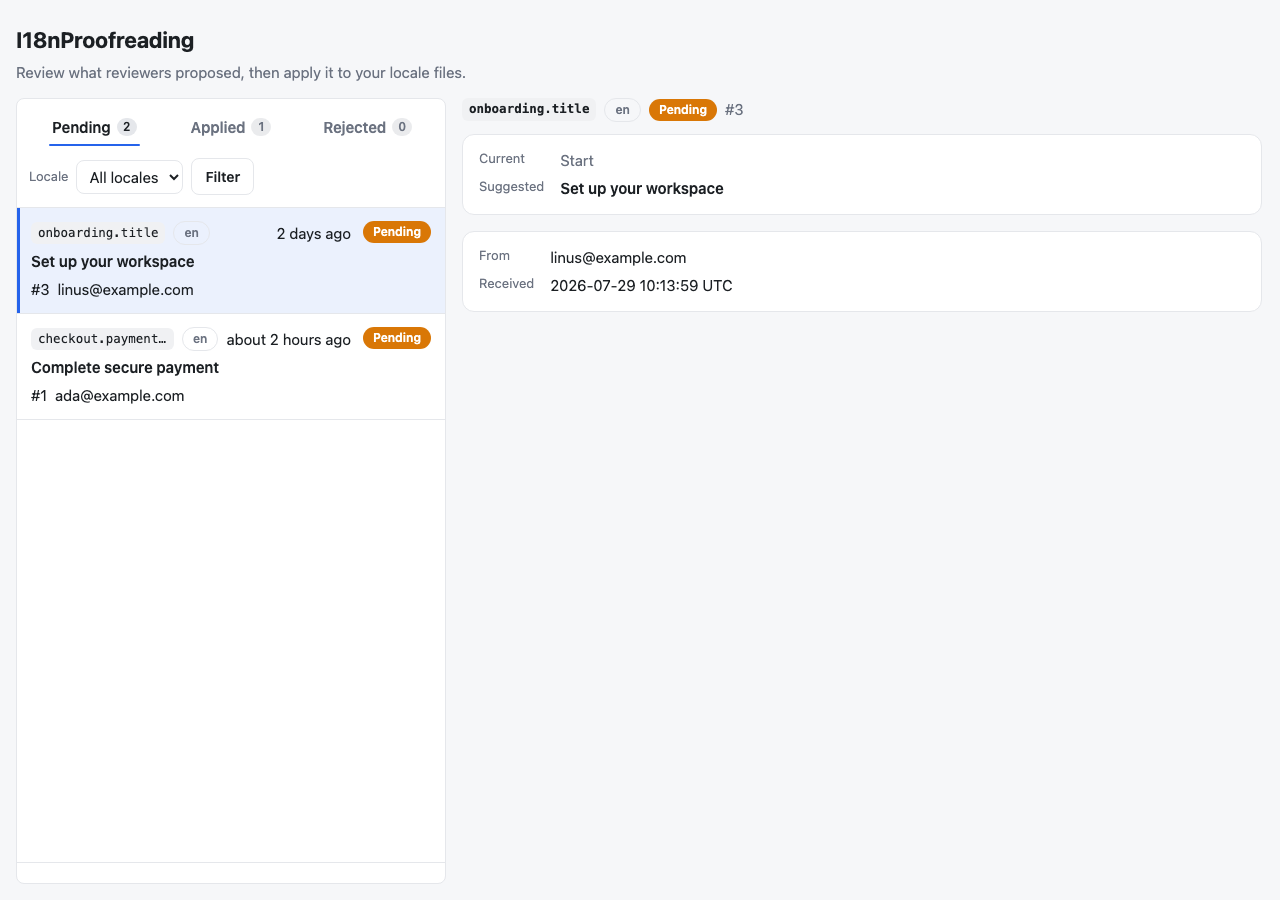
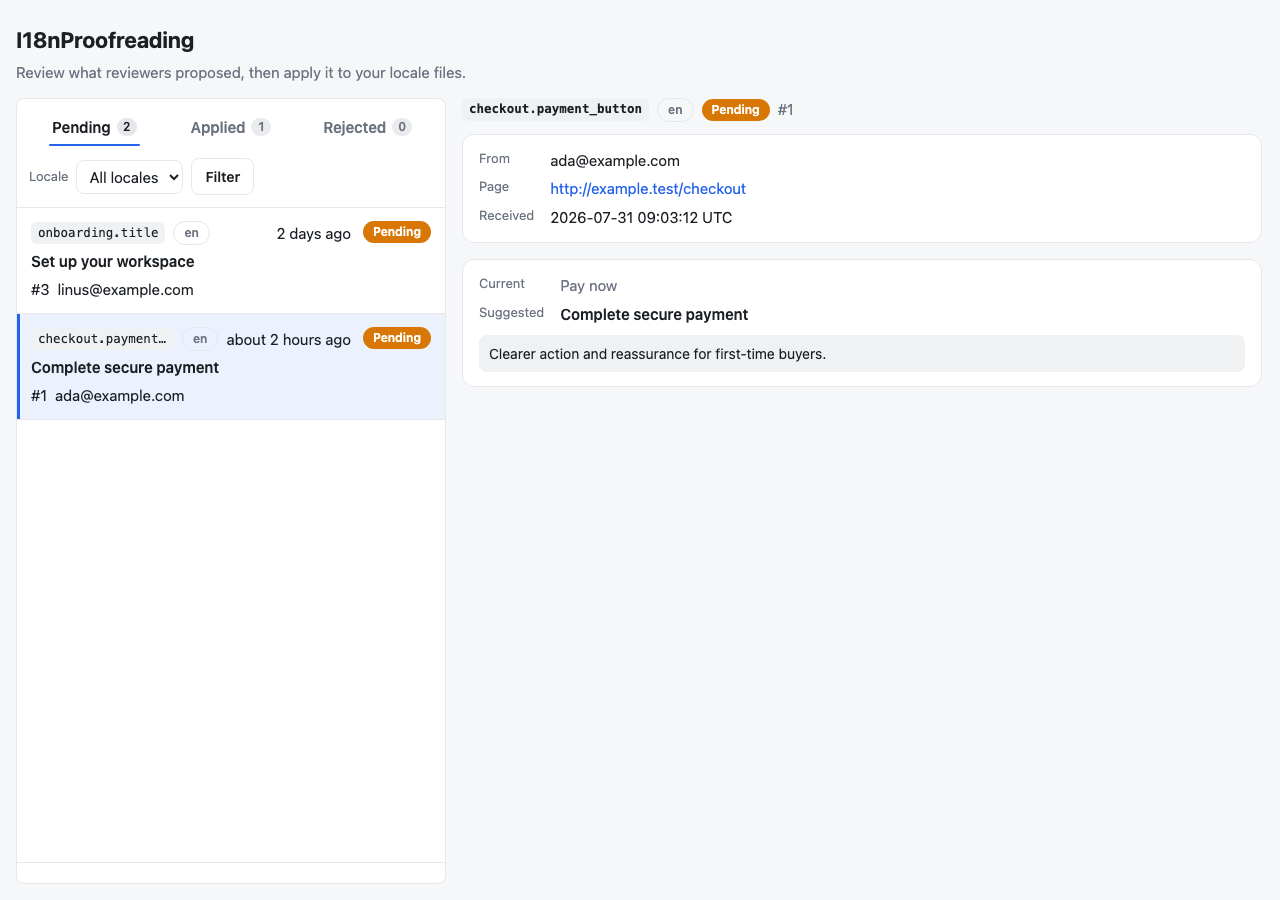
Refine admin detail ordering

Changed region(s): [[0.375, 0.0933, 0.625, 0.2489], [0.375, 0.28, 0.6562, 0.4044]]

diff --git a/test/integration/i18n_proofreading/dashboard_test.rb b/test/integration/i18n_proofreading/dashboard_test.rb
@@ -93,6 +93,8 @@ module I18nProofreading
       assert_includes response.body, 'suggestion-row active'
       assert_includes response.body, 'Hi there'
       assert_includes response.body, 'translator@example.test'
+      assert_operator response.body.rindex('translator@example.test'), :<, response.body.rindex('Hi there')
+      assert_operator response.body.rindex('Hi there'), :<, response.body.rindex('friendlier')
     end
 
     test 'shows one suggestion independently' do
